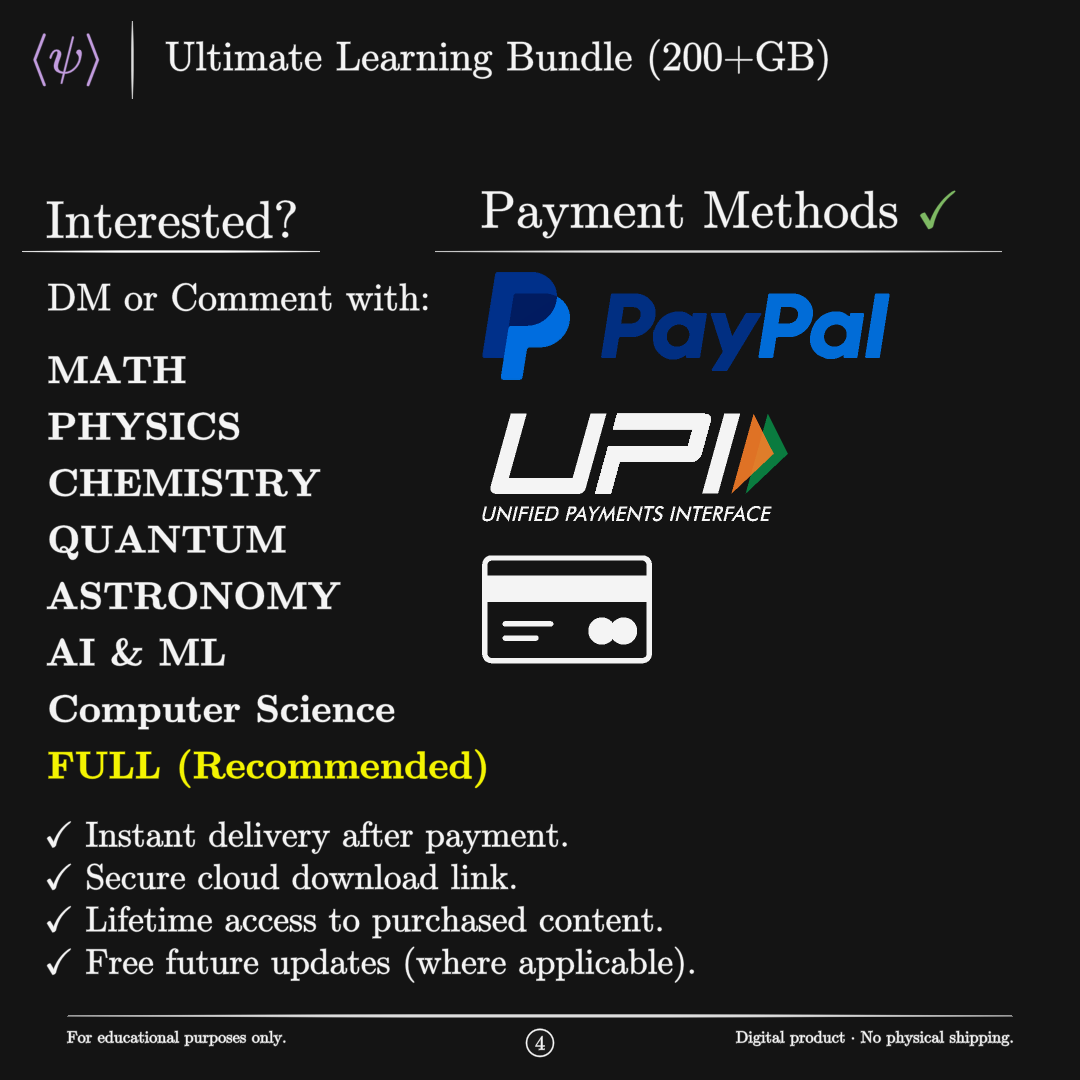
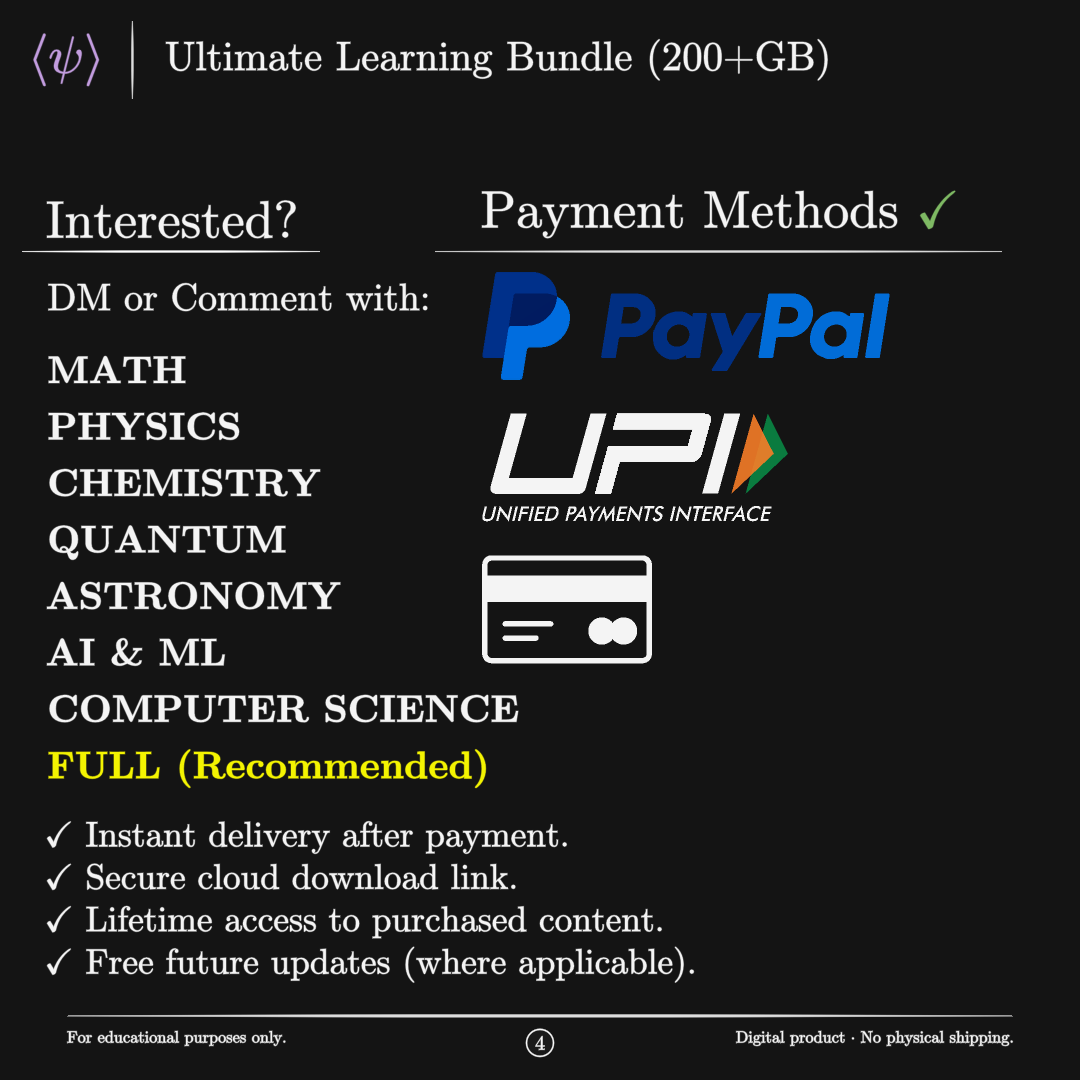
f

Changed region(s): [[0.0611, 0.6417, 0.4889, 0.6722]]

diff --git a/test.py b/test.py
@@ -164,7 +164,7 @@ class Payment(PaidTemplate):
             \textbf{QUANTUM}\\[0.1cm]
             \textbf{ASTRONOMY}\\[0.1cm]
             \textbf{AI \& ML}\\[0.1cm]
-            \textbf{Computer Science}\\[0.1cm]
+            \textbf{COMPUTER SCIENCE}\\[0.1cm]
             \textbf{FULL (Recommended)}
             """, isolate=['FULL (Recommended)'], alignment=R"\flushleft", font_size=28,
         )

diff --git a/latex_cache/working.tex b/latex_cache/working.tex
@@ -34,7 +34,7 @@ DM or Comment with:\\[0.25cm]
             \textbf{QUANTUM}\\[0.1cm]
             \textbf{ASTRONOMY}\\[0.1cm]
             \textbf{AI \& ML}\\[0.1cm]
-            \textbf{Computer Science}\\[0.1cm]
+            \textbf{COMPUTER SCIENCE}\\[0.1cm]
             \textbf{{{\color[RGB]{0, 0, 1}FULL (Recommended)}}}
 
 \end{document}
